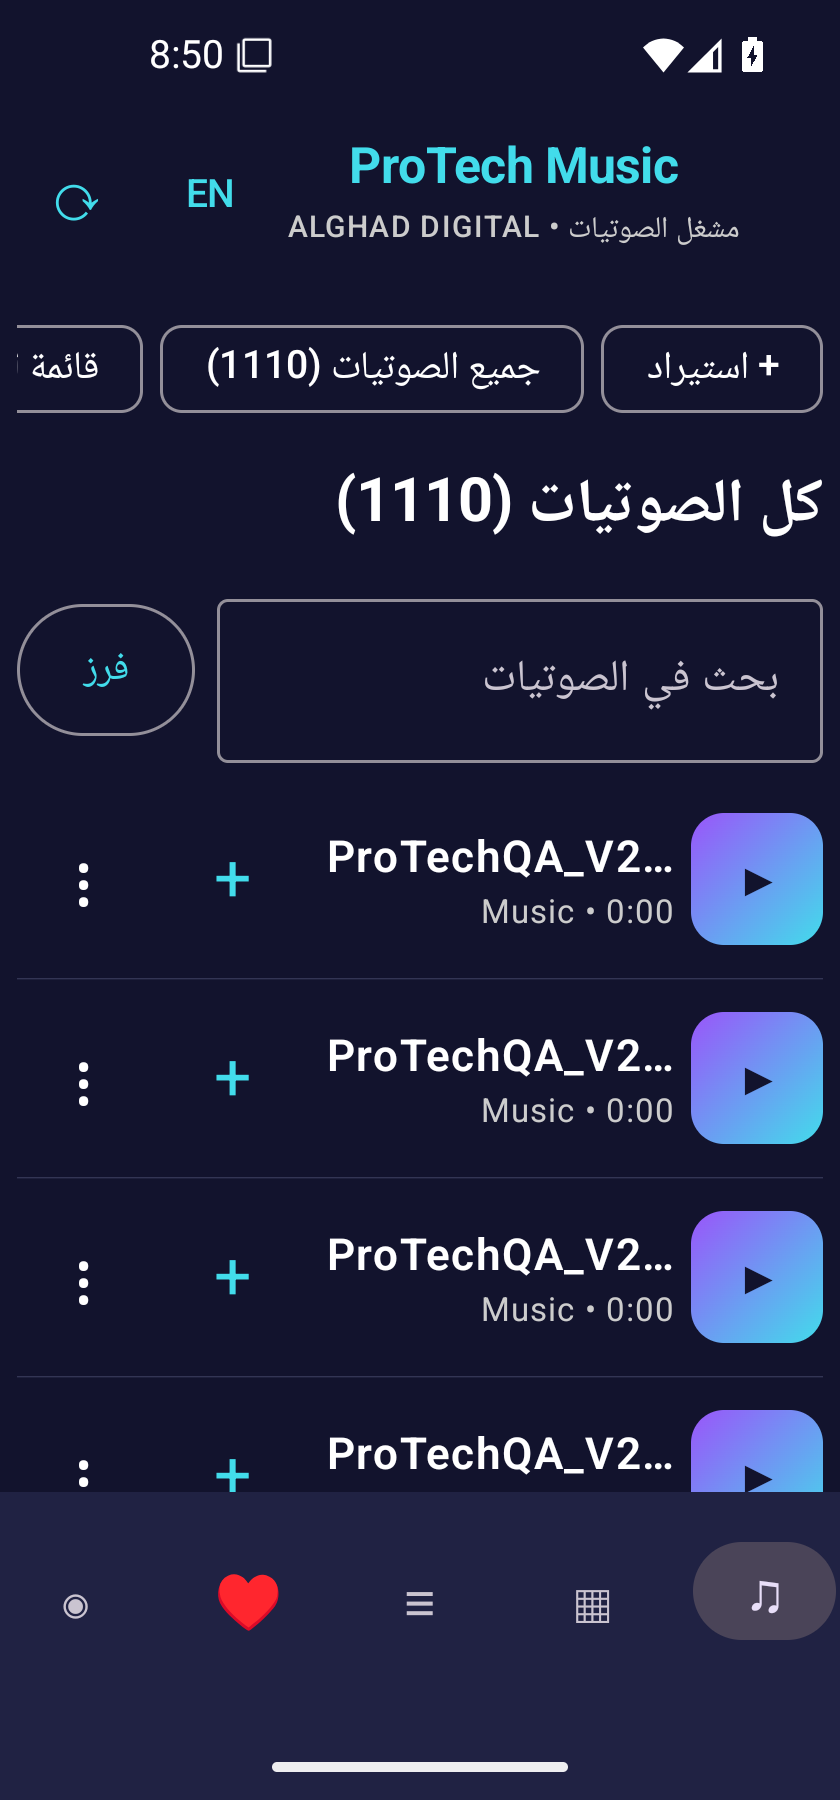
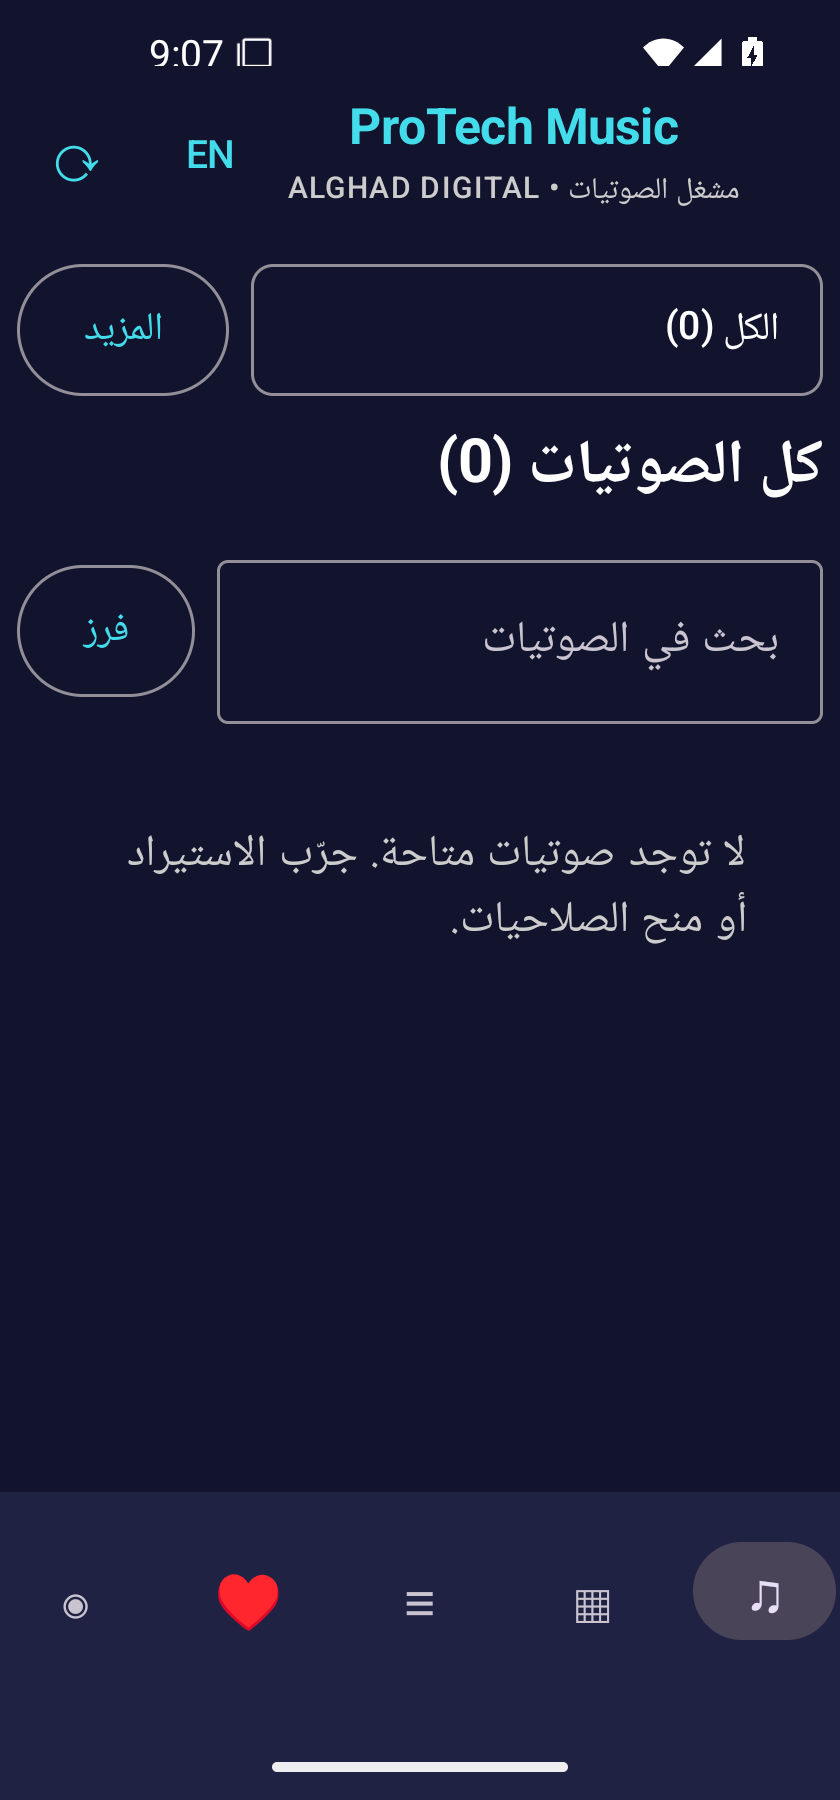
test(android): certify A14 responsive UI and compact More menu interactions

diff --git a/docs/QA_STAGE_A_EXECUTION_V23_20261122.md b/docs/QA_STAGE_A_EXECUTION_V23_20261122.md
@@ -11,7 +11,7 @@ Date 2026-11-22. Roadmap: `docs/ROADMAP_REMAINING_2X15_V23_20261122.md` (two sta
 
 ## Partial/ongoing
 - **A05** Real 1000-file MediaStore QA, isolated folder, in progress. Never infer PASS from generated file count alone.
-- **A14** Native Android platform instrumentation APK built offline with no additional dependencies; real API35 run returned `RC_SMOKE_PASS` and `INSTRUMENTATION_CODE: -1`. It checked launcher activity, non-exported audio service, permission minimization and drawn UI at 1080×2340. Kotlin JVM **54/54** PASS. More viewport/RTL and full UI interaction evidence remains before the full A14 gate is PASS.
+- **A14** Native Android platform instrumentation APK built offline with no additional dependencies; real API35 run returned `RC_SMOKE_PASS` and `INSTRUMENTATION_CODE: -1`. It checked launcher activity, non-exported audio service, permission minimization and drawn UI at 1080×2340. Kotlin JVM **54/54** PASS. Viewport and menu interaction verification later completed on the isolated V24 emulator; see A14 PASS below.
 - **A12/A13** Physical battery/Bluetooth/call QA BLOCKED: no real authorized device connected to ADB.
 
 ## Verification notes
@@ -25,4 +25,10 @@ Date 2026-11-22. Roadmap: `docs/ROADMAP_REMAINING_2X15_V23_20261122.md` (two sta
 ## A14 responsive-ui finding and fix (verification pending)
 - Native Android instrumentation returned PASS on API35 in compact 320dp, normal 411dp and a landscape viewport. Initial screenshots were captured during Android Splash Screen and are *not* UI proof; the second capture after 9 seconds revealed real app content.
 - Visual review identified an overflow/clipped chip in the compact 320dp horizontally scrollable quick action bar. `MainActivity.kt` now replaces it with a bounded **All + More** action pair at `<360dp`, with Import, Queue, Recently Added, Sources, Folders, Artists, Albums and multi-selection in an accessible Material3 `DropdownMenu`; standard layouts retain existing actions.
-- `:app:assembleDebug :app:testDebugUnitTest :app:assembleDebugAndroidTest` completed **BUILD SUCCESSFUL**, 54/54 JVM tests, but live confirmation of the revised compact layout is pending a clean independent emulator install. **A14 is not certified PASS until the loaded UI and dropdown are observed**.
+- `:app:assembleDebug :app:testDebugUnitTest :app:assembleDebugAndroidTest` completed **BUILD SUCCESSFUL**, 54/54 JVM tests, but live confirmation of the revised compact layout is pending a clean independent emulator install. **A14 was subsequently verified on the isolated V24 emulator; see the final A14 PASS evidence below.**
+## A14 final PASS — real UI and instrumentation after the responsive fix
+- A clean `ProTechMusicUI35_V24` emulator installed the revised debug APK and displayed actual Arabic RTL content at 320dp; screenshot `docs/evidence/v23/ui_v24/compact_menu_after_load.png` shows complete non-clipped **All + More** controls.
+- Clicking **More** displayed Import, Queue, Recently added, Sources, Folders, Artists, Albums and Select; `more_menu_hierarchy.xml` and `more_menu_open.png` provide direct Android UI evidence.
+- Clicking **Queue** changed the app to the current playback queue screen, verified by `queue_hierarchy.xml` and `queue_selected.png`.
+- Reinstalled the platform instrumentation APK on V24 and passed the revised app on **320dp, 411dp and landscape**. `docs/evidence/v23/layout/matrix_results.json` and corresponding screenshot/log files contain 3 `RC_SMOKE_PASS` results.
+- Gradle debug app, JVM unit tests and Android instrumentation APK: BUILD SUCCESSFUL; **54/54 JVM tests PASS**. This closes the scoped **A14 automated UI smoke gate**; broader accessibility/TalkBack production coverage remains B09.
